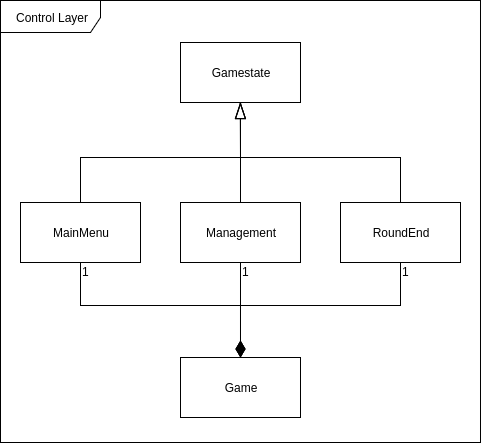
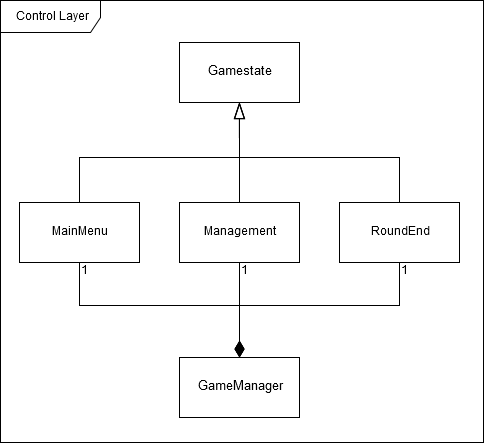
Change a lot in Tech Design Document

diff --git a/doc/technicaldesigndocument.rst b/doc/technicaldesigndocument.rst
@@ -38,7 +38,7 @@ Zur internen Organisation werden GitHub Funktionen wie Issues, Milestones und
 Projects benutzt.
 
 Ein einheitlicher Codingstil ist durch einen vorher verfassten Styleguide
-festgelegt.
+festgelegt. Die Aufgabenverteilung erfolgt durch einen Ablaufplan.
 
 Dokumentation
 ^^^^^^^^^^^^^
@@ -63,36 +63,40 @@ Grafik
 
 Primär werden die Character-Sprites, Backgrounds sowie Texturen von Hand
 gezeichnet (Graphics Tablet). Weiteres dazu in der Art Bible.
+Für die Grafiken der Höhlenmenschen wurden zunächst verschiedene Gesichter,
+Haarstile und Kleidungen gezeichnet und dann mittels eines C# Skripts dynamisch
+zusammen gesetzt.
 
 Grafikformate
 ^^^^^^^^^^^^^
 
-Das Spiel wird im 16:9 Format dargestellt und besitzt einen optionalen
-Fullscreen-Modus. Die Grafiken werden im .png Format abgespeichert.  Es wird
-keine 3D-Modelle in der Anwendung geben, da das Spiel ohne simulierte Physik und
-räumliche Darstellung auskommt. Alle Modelle und Effekte sind ausschließlich 2D.
+Das Spiel wird im 16:9 Format dargestellt, die Auflösung und Fenstergröße ist
+über den Windows Fenstermanager beliebig durch den User veränderbar. Die Grafiken
+werden im .png Format abgespeichert. Es wird keine 3D-Modelle in der Anwendung geben,
+da das Spiel ohne simulierte Physik und räumliche Darstellung auskommt.
+Alle Modelle und Effekte sind ausschließlich 2D.
 
 Mainscreen und Mockups
 ^^^^^^^^^^^^^^^^^^^^^^
 
-Der 2D Mainscreen wird eine interaktive Höhlen Übersicht darstellen.  
+Der 2D Mainscreen wird eine interaktive Höhlen Übersicht darstellen.
 Der Spieler wird die Möglichkeit haben,
 sämtliche für ihn relevanten Informationen in Form von natürlich-grafischem
 Feedback zu erhalten (Details im folgenden Abschnitt). Sämtliche Interaktionen
 können ebenfalls von diesem Mainscreen aus ausgeführt werden.
 
-.. figure:: img/management.png
+.. figure:: img/management2.png
     :align: center
     :alt: management screenshot
 
-    Screenshots des Management Screens (nicht final)
+    Screenshot des Management Screens
 
 **Liste an sichtbaren Elementen und Informationen des Mainscreens:**
 
-- Rundenzahl
+- Rundenzahl (am Anfang jeder Runde in der Textbox)
 - Verfügbare Menge an Nahrung
 - Verfügbare Menge an Materialien
-- Gesamt- und Maximalzahl an Einwohnern
+- Maximalzahl an Einwohnern
 - Menge an nicht-zugewiesenen Höhlenbewohnern (Dargestellt durch Menge an
   interaktiven Höhlenbewohner-Grafiken in der Mitte des Screens)
 - Aktionen ‘Hunt’, ‘Collect’, ‘Think’, ‘Make Love’, ‘Improve’
@@ -113,16 +117,15 @@ Interaktion
 Jagen und Sammeln
 ^^^^^^^^^^^^^^^^^
 
-Eine durch den Spieler anwählbare Aktion; Dauer der Aktion auswählbar; Liefert
-pro Höhlenbewohner eine höhere Anzahl des angeforderten Rohstoffes. Anzahl der
-Höhlenbewohner, Technologiestufe und durchschnittliches Fitnesslevel bestimmen
-Output. Der Hunting Faktor wird durch Forschung erhöht. Einfaches und
-schwieriges Jagen; in Notlagen führt schwieriges Jagen zu “High risk, high
-reward”; Abzuwägen durch den Spieler
+Eine durch den Spieler anwählbare Aktion; Liefert pro Höhlenbewohner eine höhere
+Anzahl des angeforderten Rohstoffes. Anzahl der Höhlenbewohner, Technologiestufe
+und durchschnittliches Fitnesslevel bestimmen Output. Der Hunting Bonus wird
+durch Forschung erhöht. Einfaches und schwieriges Jagen;
+in Notlagen führt schwieriges Jagen zu “High risk, high reward”; Abzuwägen durch den Spieler
 
 Beispiel:
 Nach beendeter Aktion
-Food=Food + SUM(Fitness aller beteiligten Caveman)*Hunting Faktor
+Food=Food + SUM(Fitness aller beteiligten Caveman)+Hunting Bonus
 Chance, das Caveman stirbt, berechnen
 Erhöhe Fitness der Beteiligten.
 
@@ -135,19 +138,50 @@ dieser Aufgabe beschäftigten Höhlenbewohner bestimmen den ‘Output’; Wenn
 erfolgreich wird der weibliche Höhlenbewohner schwanger und ist 3 Runden lang
 nicht verfügbar.
 
-Zu 70% erfolgreich bei heterosexuellem Verkehr.
-Bei gleichgeschlechtlichem Verkehr wird niemand schwanger, eine Textbox
-erscheint, ‘beide Bewohner fühlen sich erleichtert und schämen sich etwas’
-Easteregg: 1% Chance auf schwangere Person bei gleichgeschlechtlicher Aktion (??)
+Zu 90% erfolgreich bei heterosexuellem Verkehr.
 
 Forschungen
 ^^^^^^^^^^^
 
 Eine durch den Spieler anwählbare Aktion; Dauert mehrere Runden(abhängig von der
-gewählten Forschung und der Intelligenz des forschenden Höhlenbewohners); Aktion
-kann jederzeit abgebrochen werden; Erfolgreiches Forschen erhöht Intelligenz.
+gewählten Forschung); Erfolgreiches Forschen erhöht Intelligenz.
 Forschungen haben verschiedene Effekte auf Ressourcenanhäufung und Events (siehe
-Techtree im Game Design Document).
+Techtree im Game Design Document). Forschungen werden in Form von JSON Dateien
+gespeichert. Zum Einlesen der Dateien wird in den entsprechenden Klassen die
+externe Header Datei json.hpp, erstellt von Github User nlohmann [#]_ verwendet.
+Der Aufbau einer Techdatei gestaltet sich wie folgt:
+
+.. code:: javascript
+
+  {
+      "name": "Archery",
+      "description": "running after rabbits with spears gets very tiring. adds a big bonus to hunting and a huge fitnessgain",
+      "iconPath": "assets/archerytech.png",
+
+      "requiredIntelligence": 35,
+      "intelligenceGain": 10,
+      "duration": 5,
+
+      "cost": {
+        "food": -200,
+        "materials": -200,
+        "capacity": 0
+      },
+
+      "statBoosts": {
+          "addends": {
+              "huntBonus": 50,
+              "gatheringBonus": 0,
+              "fitnessGain": 0.8,
+  	    "passiveIntGain": 0,
+              "buildingBonus": 0,
+              "birthGain": 0
+          },
+          "multipliers": {
+
+          }
+      }
+  }
 
 Verbesserungen
 ^^^^^^^^^^^^^^
@@ -156,7 +190,7 @@ Höhle kann unter Aufwendung von Ressourcen erweitert werden; Dauert mehrere
 Runden (abhängig von Anzahl der Arbeiter); Verbraucht Baumaterialien; führt zu
 größerer Höhlenkapazität und mehr möglichen Einwohnern.
 
-Eine Improve Aktion erhöht die Kapazität um 3 Bewohner und dauert (6-Anzahl der
+Eine Improve Aktion erhöht die Kapazität um 1 Bewohner und dauert (10*0,5^Anzahl der
 beteiligten Bewohner) Runden.
 
 Scripted Events
@@ -165,7 +199,8 @@ Scripted Events
 Darstellung durch Textboxen; werden durch Aktionen oder zufällig getriggert.
 Können je nach Inhalt den aktuellen Gamestate beeinflussen; mindestens mit einem
 ‘Okay’-Button oder anderen anklickbaren Auswahlmöglichkeiten verbunden
-(Buttons). 
+(Buttons). Scripted Events werden in der gleichen Weise wie Forschungen in JSON
+Dateien gespeichert und eingelesen.
 
 Gameflow
 ^^^^^^^^
@@ -192,17 +227,17 @@ permanent ein als wichtig wahrgenommener Faktor.
 Klassenverzeichnis & -beschreibungen
 ------------------------------------
 
-An dieser Stelle soll eine formelle Beschreibung der wichtigsten Klassen
+An dieser Stelle soll eine formelle Beschreibung der Klassen
 vorgenommen werden.  Die Implementierung soll so gestaltet werden, dass die
 Klassen möglichst unabhängig voneinander erstellt werden. Jede Klasse sollte
 einen möglichst kleinen Aufgabenbereich abdecken. Für eine genauere
-Dokumentation aller Variablen und Methoden werden Docstrings verwendet, wie
-unter Punkt 1 erwähnt.
+Dokumentation aller Variablen und Methoden werden Docstrings verwendet und
+es sei auf die Codedokumentation verwiesen.
 
 main
 ^^^^
 
-Erstellt und managed das SFML Renderwindow; Erstellt ein neues Game Objekt.
+Erstellt und managed das SFML Renderwindow; Erstellt neue Game und GameManager Objekte.
 Enthält die GameLoop und fängt alle benötigten SFML Events ab;
 
 TransformedVector
@@ -254,12 +289,22 @@ laufenden Aktionen im Management State darzustellen.
 
     Darstellung der GUI Schicht
 
+ResourceDisplay
+^^^^^^^^^^^^^^^
+
+Enthält mehrere Buttons und Textboxen. Dient als HUD für den Management Gamestate.
+
+GameManager
+^^^^^^^^^^^
+
+Enthält jeweils ein Objekt jedes Gamestates und verwaltet den Wechsel zwischen diesen.
+Enthält weiterhin das Game Objekt.
+
 Game
 ^^^^
 
 Enthält Variablen für Ressourcen, einen Vektor aller Caveman im Stamm sowie die
-Liste der laufenden Aktionen; Enthält jeweils ein Objekt der Gamestates
-MainMenu, Management und RoundEnd und verwaltet den Wechsel zwischen diesen.
+Liste der laufenden Aktionen und Events.
 
 Gamestate
 ^^^^^^^^^
@@ -289,16 +334,26 @@ Aktionen um eins verringert wird. Erstellt weiterhin Textboxen mit allen
 Ressourcenänderungen seit der vorherigen Runde und ruft Events über EventFactory
 auf. Ruft update() Funktion des SaveContainers auf.
 
+WinScreen
+~~~~~~~~~
+
+Erbt von Gamestate; Enthält einen Winning Background und einen Button zum Neustart des Spiels.
+
+LoseScreen
+~~~~~~~~~~
+
+Erbt von Gamestate; Enthält einen Losing Background und einen Button zum Neustart des Spiels
+
 .. figure:: img/control-layer.png
     :align: center
     :alt: Control Layer
 
     Darstellung der Control Schicht
-	
+
 CavemanFactory
 ^^^^^^^^^^^^^^
 
-Factory Klasse zur Erstellung von den unterschiedlichen Caveman Typen. 
+Factory Klasse zur Erstellung von den unterschiedlichen Caveman Typen.
 createCaveman() Funktion ruft entsprechende Konstruktor auf.
 
 Caveman
@@ -342,7 +397,8 @@ der Teilnehmer.
 Collect
 ~~~~~~~
 
-Erbt von Action; resolve() Funktion berechnet Materialienzuwachs
+Erbt von Action; resolve() Funktion berechnet Materialienzuwachs und Todeschance
+der Teilnehmer.
 
 Sex/Reproduce
 ~~~~~~~~~~~~~
@@ -356,13 +412,12 @@ Improve
 Erbt von Action; resolve() Funktion erhöht Maximalkapazität an Höhlenbewohnern
 im Stamm. Improve Aktionen verbrauchen Materialien.
 
-Research
-~~~~~~~~
+Think
+~~~~~
 
-Erbt von Action; resolve() Funktion callt den Callback.
-Verschiedene Researches werden durch einen Namen unterschieden.
-Jede Research hat einen parent. Die erste tech hat “root” als parent.
-Jede Research erfordert eine mindest Intelligence und verbraucht Ressourcen.
+Erbt von Action; . Verschiedene Techs werden durch einen Namen unterschieden.
+Die entsprechende Tech ist mit gleichem Namen im Techtree Objekt zu finden.
+Kann nur einen Teilnehmer haben.
 
 .. figure:: img/action-relation.png
     :align: center
@@ -371,37 +426,33 @@ Jede Research erfordert eine mindest Intelligence und verbraucht Ressourcen.
 
     Darstellung der Beziehungen von Action
 
+Techtree
+^^^^^^^^
+
+Erbt von Rectangle; Besitzt eine Map von Techs um den Ingame Techtree zu speichern.
+Weiterhin eine Trainingstech, eine Textbox und Buttons zum Fortfahren und Abbrechen.
+Struktur der Map wird aus techtree.json geparsed.
+
+Tech
+^^^^
+
+Erforschbare Tech im Techtree.
+Konstruktor parsed techname.json und speichert Kosten, Boni, Dauer und Grafik.
+
 EventFactory
 ^^^^^^^^^^^^
 
-Factory Klasse zur Erstellung von Events; createEvent() liest aus der events
-File via EventContainer und gibt ein neues Event Objekt zurück.
-
-EventContainer
-^^^^^^^^^^^^^^
-
-Liest Events aus der events File. Beispiel für mögliche Notation in der File:
-
-.. code:: javascript
-
-    {
-        tags: [ “before_Holzzaun”,
-                “after_Toepfern” ],
-        name: “Ein wildes Tier hat einen Topf geklaut.”,
-        description: “Ein Zaun wäre gut gewesen. :c”,
-        resources: { food: -50, buildingMaterial: -20, capacity: 0 },
-        death: 0,
-        new: 0
-    }
+Factory Klasse zur Erstellung von Events; createEvent() gibt ein neues Event Objekt zurück.
 
 Event
 ^^^^^
 
-Bekommt Konstruktorparameter von EventFactory. Besitzt eine Textbox zur
-Darstellung des Events sowie einen Button zum Bestätigen.
+Bekommt Konstruktorparameter von EventFactory. Konstruktor parsed eine JSON File
+und liest Werte aus. Besitzt je nach Event Text zum Anzeigen,
+verschiedene Buttons als anklickbare Optionen und Ressourcenveränderungen.
 
-SaveContainer
-^^^^^^^^^^^^^
+SaveContainer (nicht implementiert)
+^^^^^^^^^^^^^^^^^^^^^^^^^^^^^^^^^^^
 
 Speichert Informationen über das aktuelle Game; Enthält Funktion SaveToFile()
 und LoadFromFile()
@@ -416,7 +467,7 @@ Hilfsfunktionen
 ^^^^^^^^^^^^^^^
 
 Weitere Dateien die keine instanzierbaren Klassen darstellen sondern zur
-besseren Übersicht ausgelagerte Funktionen enthalten.
+besseren Übersicht ausgelagerte Funktionen oder structs enthalten.
 
 Buttonfunctions
 ~~~~~~~~~~~~~~~
@@ -424,15 +475,15 @@ Buttonfunctions
 Enthält Callback Funktionen die den Buttons aus den Gamestates zugewiesen
 werden; unterteilt in sinnvolle namespaces.
 
-Techfunctions
-~~~~~~~~~~~~~
+Enums
+~~~~~
 
-Enthält Callback Funktionen für Forschungen.
+Enthält alle verwendeten Enums
 
-Eventfunctions
-~~~~~~~~~~~~~~
+Resources
+~~~~~~~~~
 
-Enthält Callback Funktionen für Events.
+Enthält ein Resources struct.
 
 
 Art Bible
@@ -604,3 +655,4 @@ Menü
 .. [#] Continuous Integration https://en.wikipedia.org/wiki/Continuous_integration
 .. [#] Travis CI https://travis-ci.org/
 .. [#] Doxygen http://doxygen.org/
+.. [#] nlohman json.hpp https://github.com/nlohmann/json
